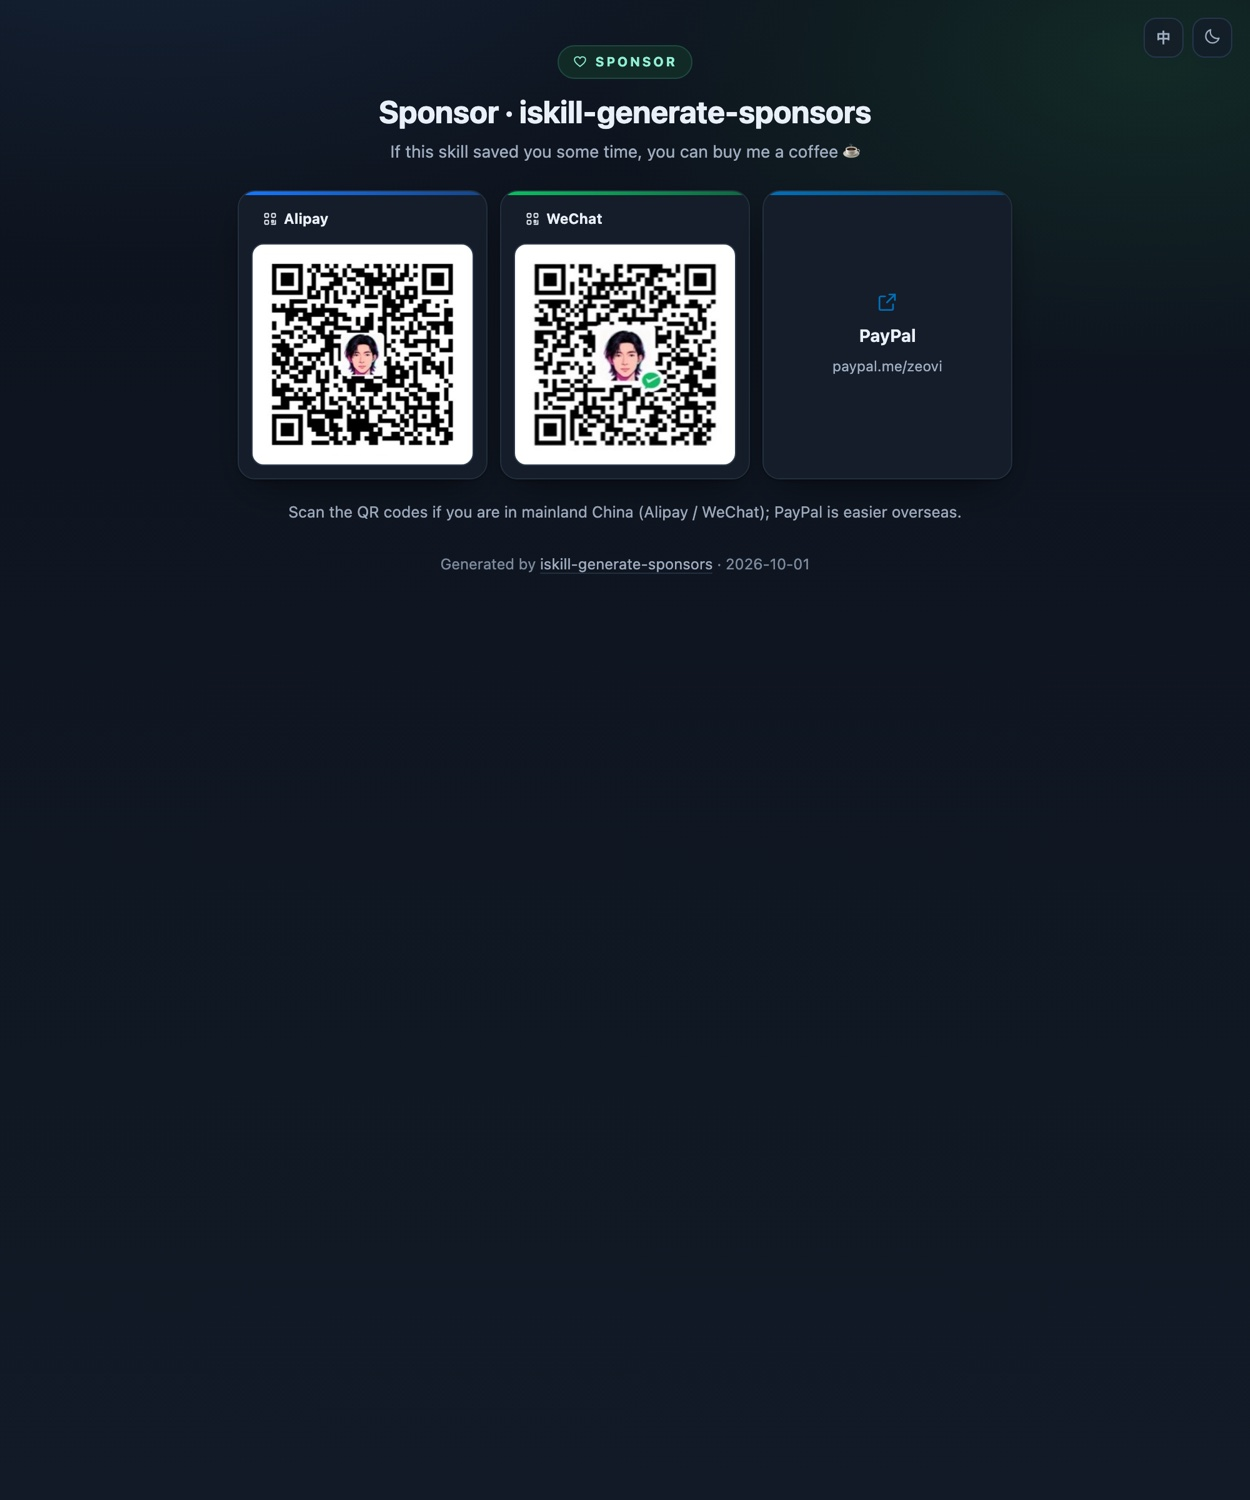
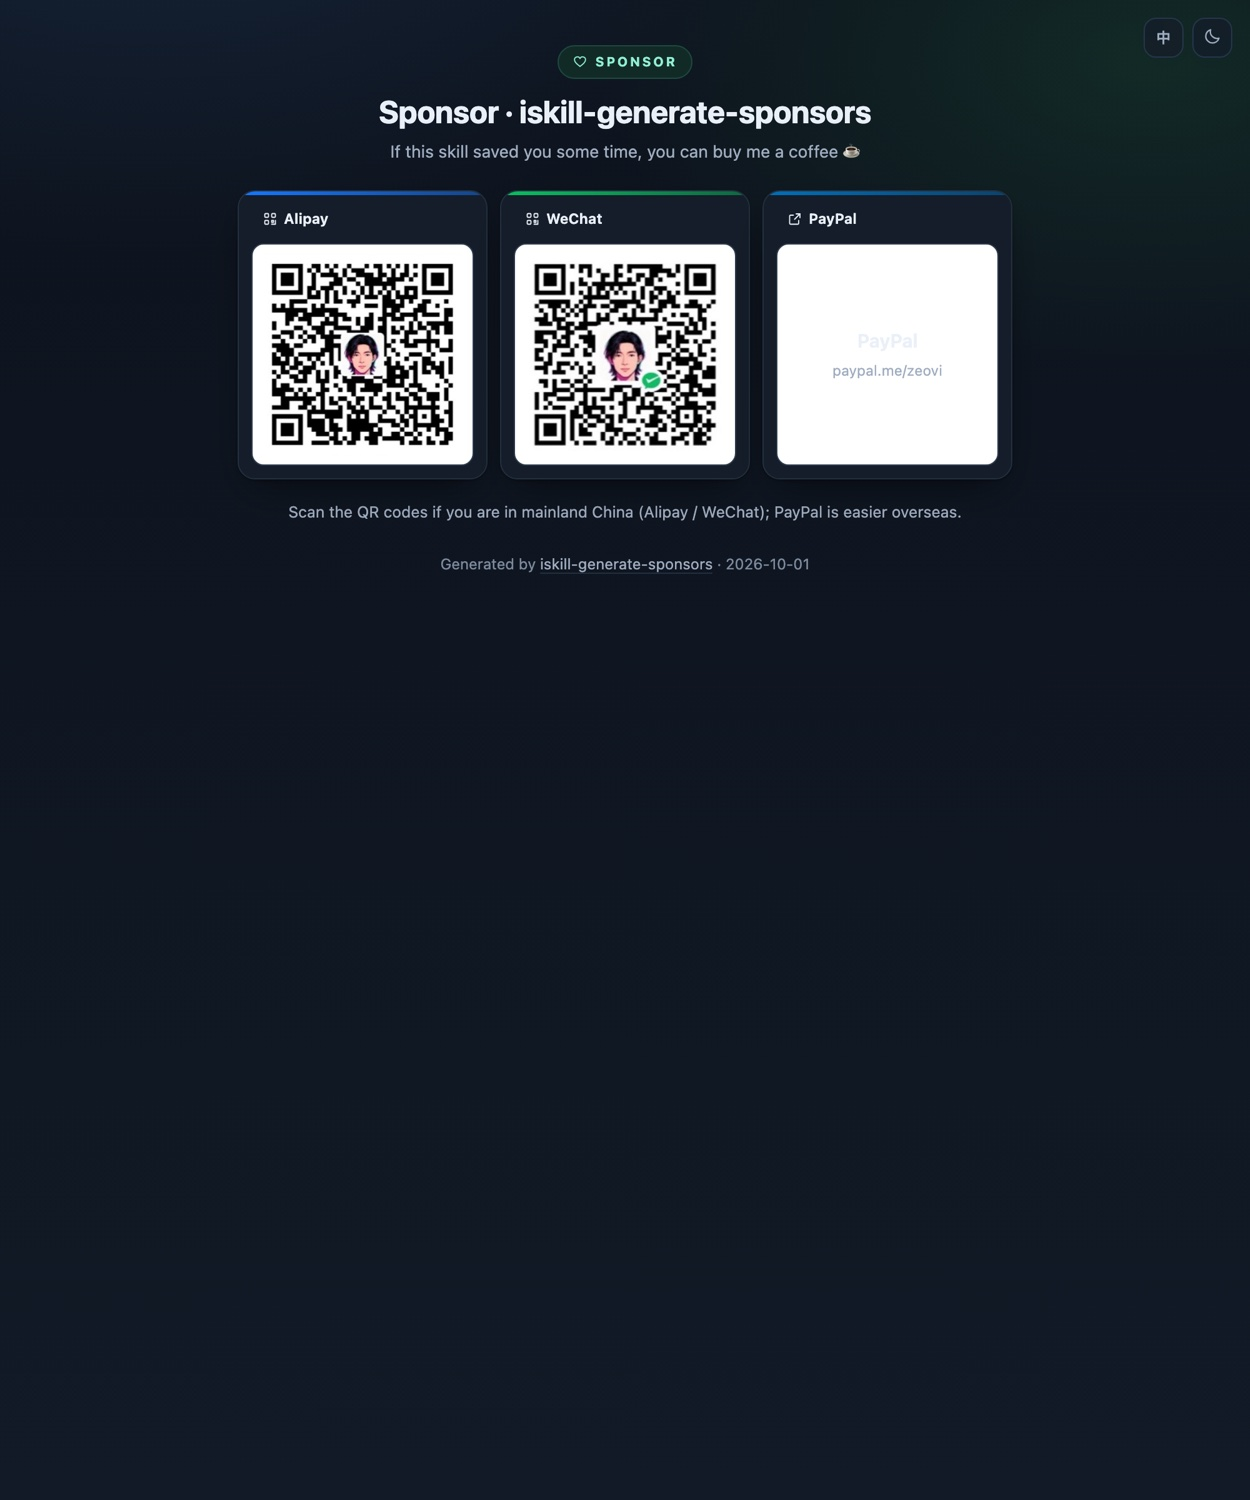
refine: 外链卡与码卡同构（chip 头 + 圆角方容器居中名称与链接）

Changed region(s): [[0.624, 0.1227, 0.8112, 0.3373]]

diff --git a/index.html b/index.html
@@ -133,7 +133,7 @@ h1{
       </span>
     </header>
     <p class="meta">
-      <span data-zh="更新于" data-en="Generated">更新于</span> 2026-10-01 23:31:20
+      <span data-zh="更新于" data-en="Generated">更新于</span> 2026-10-01 23:36:08
       · <span data-zh="图片在" data-en="Images in">图片在</span> <code>.github/sponsor/</code>
       · <span data-zh="公开预览页" data-en="Public page">公开预览页</span> <a href="sponsors.html">sponsors.html</a>
       · <a href="https://github.com/aispin/iskill-generate-sponsors" target="_blank" rel="noopener noreferrer"><span data-zh="GitHub 仓库" data-en="GitHub repo">GitHub 仓库</span> ↗</a>
@@ -502,11 +502,11 @@ const CSS = `
 .sp-1qs5qt .sp-zoom svg{width:13px;height:13px}
 .sp-1qs5qt .sp-qr:hover .sp-zoom{opacity:1}
 
-/* 链接项与码卡同款卡片外观：同宽、等高（随行内最高者）、同装饰 */
+/* 链接卡与码卡同构：顶部 chip（图标+名称），中间圆角方容器居中放 名称+链接 */
 .sp-1qs5qt .sp-link{
   position:relative;margin:0;width:200px;max-width:100%;
-  display:flex;flex-direction:column;align-items:center;justify-content:center;gap:3px;
-  padding:9px;text-decoration:none;color:var(--sp-ink);text-align:center;
+  display:flex;flex-direction:column;gap:7px;
+  padding:9px;text-decoration:none;color:var(--sp-ink);
   background:var(--sp-card);border:1px solid var(--sp-line);border-radius:12px;
   box-shadow:var(--sp-shadow);
   transition:transform .18s,box-shadow .18s;
@@ -518,10 +518,14 @@ const CSS = `
 }
 .sp-1qs5qt .sp-link:hover{transform:translateY(-2px);box-shadow:0 4px 14px -8px rgba(16,32,56,.28)}
 .sp-1qs5qt .sp-link:focus-visible{outline:2px solid var(--sp-accent);outline-offset:2px}
-.sp-1qs5qt .sp-link-label{font-weight:650;font-size:13px}
+.sp-1qs5qt .sp-link .sp-link-body{
+  flex:1;min-height:140px;
+  display:flex;flex-direction:column;align-items:center;justify-content:center;gap:3px;
+  background:var(--sp-qr-bg);border:1px solid var(--sp-qr-line);border-radius:8px;
+  padding:6px;text-align:center;
+}
+.sp-1qs5qt .sp-link-name{font-weight:650;font-size:14px}
 .sp-1qs5qt .sp-link-sub{font-size:11px;color:var(--sp-ink2);max-width:100%;overflow:hidden;text-overflow:ellipsis;white-space:nowrap}
-.sp-1qs5qt .sp-link-ic{width:17px;height:17px;color:var(--sp-accent);margin-bottom:3px}
-.sp-1qs5qt .sp-link-ic svg{width:100%;height:100%}
 .sp-1qs5qt .sp-empty{flex-basis:100%;color:var(--sp-ink2);text-align:center}
 .sp-1qs5qt .sp-empty code{background:var(--sp-code-bg);padding:2px 6px;border-radius:6px;font-size:12.5px}
 
@@ -707,9 +711,13 @@ export default function SponsorCard({
             target="_blank"
             rel="noopener noreferrer"
           >
-            &lt;span className="sp-link-ic">&lt;Icon.Link />&lt;/span>
-            &lt;span className="sp-link-label">{l.label}&lt;/span>
-            &lt;span className="sp-link-sub">{l.sub}&lt;/span>
+            &lt;div className="sp-card-head">
+              &lt;span className="sp-chip">&lt;Icon.Link />&lt;span>{l.label}&lt;/span>&lt;/span>
+            &lt;/div>
+            &lt;span className="sp-link-body">
+              &lt;span className="sp-link-name">{l.label}&lt;/span>
+              &lt;span className="sp-link-sub">{l.sub}&lt;/span>
+            &lt;/span>
           &lt;/a>
         )) : (
           &lt;p className="sp-empty" dangerouslySetInnerHTML={{ __html: t.empty }} />
@@ -808,9 +816,13 @@ export default function SponsorCard({
         target="_blank"
         rel="noopener noreferrer"
       >
-        &lt;span class="sp-link-ic">&lt;svg viewBox="0 0 24 24" fill="none" stroke="currentColor" stroke-width="1.8" stroke-linecap="round" stroke-linejoin="round">&lt;path d="M14 4h6v6"/>&lt;path d="M20 4l-8.5 8.5"/>&lt;path d="M18 14.5V19a1.5 1.5 0 0 1-1.5 1.5H5A1.5 1.5 0 0 1 3.5 19V7.5A1.5 1.5 0 0 1 5 6h4.5"/>&lt;/svg>&lt;/span>
-        &lt;span class="sp-link-label">{{ l.label }}&lt;/span>
-        &lt;span class="sp-link-sub">{{ l.sub }}&lt;/span>
+        &lt;div class="sp-card-head">
+          &lt;span class="sp-chip">&lt;svg viewBox="0 0 24 24" fill="none" stroke="currentColor" stroke-width="1.8" stroke-linecap="round" stroke-linejoin="round">&lt;path d="M14 4h6v6"/>&lt;path d="M20 4l-8.5 8.5"/>&lt;path d="M18 14.5V19a1.5 1.5 0 0 1-1.5 1.5H5A1.5 1.5 0 0 1 3.5 19V7.5A1.5 1.5 0 0 1 5 6h4.5"/>&lt;/svg>&lt;span>{{ l.label }}&lt;/span>&lt;/span>
+        &lt;/div>
+        &lt;span class="sp-link-body">
+          &lt;span class="sp-link-name">{{ l.label }}&lt;/span>
+          &lt;span class="sp-link-sub">{{ l.sub }}&lt;/span>
+        &lt;/span>
       &lt;/a>
       &lt;p v-if="!d.links.length" class="sp-empty" v-html="t.empty">&lt;/p>
     &lt;/section>
@@ -1127,11 +1139,11 @@ onBeforeUnmount(() => document.removeEventListener('keydown', onKey));
 .sponsor-card .sp-zoom svg{width:13px;height:13px}
 .sponsor-card .sp-qr:hover .sp-zoom{opacity:1}
 
-/* 链接项与码卡同款卡片外观：同宽、等高（随行内最高者）、同装饰 */
+/* 链接卡与码卡同构：顶部 chip（图标+名称），中间圆角方容器居中放 名称+链接 */
 .sponsor-card .sp-link{
   position:relative;margin:0;width:200px;max-width:100%;
-  display:flex;flex-direction:column;align-items:center;justify-content:center;gap:3px;
-  padding:9px;text-decoration:none;color:var(--sp-ink);text-align:center;
+  display:flex;flex-direction:column;gap:7px;
+  padding:9px;text-decoration:none;color:var(--sp-ink);
   background:var(--sp-card);border:1px solid var(--sp-line);border-radius:12px;
   box-shadow:var(--sp-shadow);
   transition:transform .18s,box-shadow .18s;
@@ -1143,10 +1155,14 @@ onBeforeUnmount(() => document.removeEventListener('keydown', onKey));
 }
 .sponsor-card .sp-link:hover{transform:translateY(-2px);box-shadow:0 4px 14px -8px rgba(16,32,56,.28)}
 .sponsor-card .sp-link:focus-visible{outline:2px solid var(--sp-accent);outline-offset:2px}
-.sponsor-card .sp-link-label{font-weight:650;font-size:13px}
+.sponsor-card .sp-link :deep(.sp-link-body){
+  flex:1;min-height:140px;
+  display:flex;flex-direction:column;align-items:center;justify-content:center;gap:3px;
+  background:var(--sp-qr-bg);border:1px solid var(--sp-qr-line);border-radius:8px;
+  padding:6px;text-align:center;
+}
+.sponsor-card .sp-link-name{font-weight:650;font-size:14px}
 .sponsor-card .sp-link-sub{font-size:11px;color:var(--sp-ink2);max-width:100%;overflow:hidden;text-overflow:ellipsis;white-space:nowrap}
-.sponsor-card .sp-link-ic{width:17px;height:17px;color:var(--sp-accent);margin-bottom:3px}
-.sponsor-card .sp-link-ic svg{width:100%;height:100%}
 .sponsor-card .sp-empty{flex-basis:100%;color:var(--sp-ink2);text-align:center}
 .sponsor-card .sp-empty :deep(code){background:var(--sp-code-bg);padding:2px 6px;border-radius:6px;font-size:12.5px}
 

diff --git a/SponsorCard.vue b/SponsorCard.vue
@@ -57,9 +57,13 @@
         target="_blank"
         rel="noopener noreferrer"
       >
-        <span class="sp-link-ic"><svg viewBox="0 0 24 24" fill="none" stroke="currentColor" stroke-width="1.8" stroke-linecap="round" stroke-linejoin="round"><path d="M14 4h6v6"/><path d="M20 4l-8.5 8.5"/><path d="M18 14.5V19a1.5 1.5 0 0 1-1.5 1.5H5A1.5 1.5 0 0 1 3.5 19V7.5A1.5 1.5 0 0 1 5 6h4.5"/></svg></span>
-        <span class="sp-link-label">{{ l.label }}</span>
-        <span class="sp-link-sub">{{ l.sub }}</span>
+        <div class="sp-card-head">
+          <span class="sp-chip"><svg viewBox="0 0 24 24" fill="none" stroke="currentColor" stroke-width="1.8" stroke-linecap="round" stroke-linejoin="round"><path d="M14 4h6v6"/><path d="M20 4l-8.5 8.5"/><path d="M18 14.5V19a1.5 1.5 0 0 1-1.5 1.5H5A1.5 1.5 0 0 1 3.5 19V7.5A1.5 1.5 0 0 1 5 6h4.5"/></svg><span>{{ l.label }}</span></span>
+        </div>
+        <span class="sp-link-body">
+          <span class="sp-link-name">{{ l.label }}</span>
+          <span class="sp-link-sub">{{ l.sub }}</span>
+        </span>
       </a>
       <p v-if="!d.links.length" class="sp-empty" v-html="t.empty"></p>
     </section>
@@ -376,11 +380,11 @@ onBeforeUnmount(() => document.removeEventListener('keydown', onKey));
 .sponsor-card .sp-zoom svg{width:13px;height:13px}
 .sponsor-card .sp-qr:hover .sp-zoom{opacity:1}
 
-/* 链接项与码卡同款卡片外观：同宽、等高（随行内最高者）、同装饰 */
+/* 链接卡与码卡同构：顶部 chip（图标+名称），中间圆角方容器居中放 名称+链接 */
 .sponsor-card .sp-link{
   position:relative;margin:0;width:200px;max-width:100%;
-  display:flex;flex-direction:column;align-items:center;justify-content:center;gap:3px;
-  padding:9px;text-decoration:none;color:var(--sp-ink);text-align:center;
+  display:flex;flex-direction:column;gap:7px;
+  padding:9px;text-decoration:none;color:var(--sp-ink);
   background:var(--sp-card);border:1px solid var(--sp-line);border-radius:12px;
   box-shadow:var(--sp-shadow);
   transition:transform .18s,box-shadow .18s;
@@ -392,10 +396,14 @@ onBeforeUnmount(() => document.removeEventListener('keydown', onKey));
 }
 .sponsor-card .sp-link:hover{transform:translateY(-2px);box-shadow:0 4px 14px -8px rgba(16,32,56,.28)}
 .sponsor-card .sp-link:focus-visible{outline:2px solid var(--sp-accent);outline-offset:2px}
-.sponsor-card .sp-link-label{font-weight:650;font-size:13px}
+.sponsor-card .sp-link :deep(.sp-link-body){
+  flex:1;min-height:140px;
+  display:flex;flex-direction:column;align-items:center;justify-content:center;gap:3px;
+  background:var(--sp-qr-bg);border:1px solid var(--sp-qr-line);border-radius:8px;
+  padding:6px;text-align:center;
+}
+.sponsor-card .sp-link-name{font-weight:650;font-size:14px}
 .sponsor-card .sp-link-sub{font-size:11px;color:var(--sp-ink2);max-width:100%;overflow:hidden;text-overflow:ellipsis;white-space:nowrap}
-.sponsor-card .sp-link-ic{width:17px;height:17px;color:var(--sp-accent);margin-bottom:3px}
-.sponsor-card .sp-link-ic svg{width:100%;height:100%}
 .sponsor-card .sp-empty{flex-basis:100%;color:var(--sp-ink2);text-align:center}
 .sponsor-card .sp-empty :deep(code){background:var(--sp-code-bg);padding:2px 6px;border-radius:6px;font-size:12.5px}
 

diff --git a/sponsors.html b/sponsors.html
@@ -138,12 +138,12 @@ body{
 .zoom svg{width:14px;height:14px}
 .qr:hover .zoom{opacity:1}
 
-/* 链接项与码卡同款卡片外观：同宽、等高（随行内最高者）、同装饰 */
+/* 链接卡与码卡同构：顶部 chip（图标+名称），中间圆角方容器居中放 名称+链接 */
 .link{
   --accent:#10C8A1;
   position:relative;margin:0;width:200px;max-width:100%;
-  display:flex;flex-direction:column;align-items:center;justify-content:center;gap:4px;
-  padding:10px;text-decoration:none;color:var(--ink);text-align:center;
+  display:flex;flex-direction:column;gap:7px;
+  padding:10px;text-decoration:none;color:var(--ink);
   background:var(--card);border:1px solid var(--line);border-radius:14px;
   box-shadow:var(--shadow);
   transition:transform .18s,box-shadow .18s;
@@ -155,10 +155,14 @@ body{
 }
 .link:hover{transform:translateY(-2px);box-shadow:var(--shadow-hi)}
 .link:focus-visible{outline:2px solid var(--accent);outline-offset:2px}
-.link-label{font-weight:650;font-size:14px}
+.link-body{
+  flex:1;min-height:150px;
+  display:flex;flex-direction:column;align-items:center;justify-content:center;gap:3px;
+  background:var(--qr-bg);border:1px solid var(--qr-line);border-radius:10px;
+  padding:7px;text-align:center;
+}
+.link-name{font-weight:650;font-size:15px}
 .link-sub{font-size:11.5px;color:var(--ink2);max-width:100%;overflow:hidden;text-overflow:ellipsis;white-space:nowrap}
-.link-icon{width:18px;height:18px;color:var(--accent);margin-bottom:3px}
-.link-icon svg{width:100%;height:100%}
 .empty{flex-basis:100%;color:var(--ink2);text-align:center}
 .empty code{background:var(--code-bg);padding:2px 6px;border-radius:6px;font-size:13.5px}
 
@@ -265,9 +269,13 @@ body{
       </figure>
 
         <a class="link" style="--accent:#0070BA" href="https://paypal.me/zeovi" target="_blank" rel="noopener noreferrer">
-          <span class="link-icon"><svg viewBox="0 0 24 24" fill="none" stroke="currentColor" stroke-width="1.8" stroke-linecap="round" stroke-linejoin="round"><path d="M14 4h6v6"/><path d="M20 4l-8.5 8.5"/><path d="M18 14.5V19a1.5 1.5 0 0 1-1.5 1.5H5A1.5 1.5 0 0 1 3.5 19V7.5A1.5 1.5 0 0 1 5 6h4.5"/></svg></span>
-          <span class="link-label">PayPal</span>
-          <span class="link-sub">paypal.me/zeovi</span>
+          <div class="card-head">
+            <span class="chip"><svg viewBox="0 0 24 24" fill="none" stroke="currentColor" stroke-width="1.8" stroke-linecap="round" stroke-linejoin="round"><path d="M14 4h6v6"/><path d="M20 4l-8.5 8.5"/><path d="M18 14.5V19a1.5 1.5 0 0 1-1.5 1.5H5A1.5 1.5 0 0 1 3.5 19V7.5A1.5 1.5 0 0 1 5 6h4.5"/></svg><span>PayPal</span></span>
+          </div>
+          <span class="link-body">
+            <span class="link-name">PayPal</span>
+            <span class="link-sub">paypal.me/zeovi</span>
+          </span>
         </a>
   </section>
 

diff --git a/SponsorCard.jsx b/SponsorCard.jsx
@@ -225,11 +225,11 @@ const CSS = `
 .sp-1qs5qt .sp-zoom svg{width:13px;height:13px}
 .sp-1qs5qt .sp-qr:hover .sp-zoom{opacity:1}
 
-/* 链接项与码卡同款卡片外观：同宽、等高（随行内最高者）、同装饰 */
+/* 链接卡与码卡同构：顶部 chip（图标+名称），中间圆角方容器居中放 名称+链接 */
 .sp-1qs5qt .sp-link{
   position:relative;margin:0;width:200px;max-width:100%;
-  display:flex;flex-direction:column;align-items:center;justify-content:center;gap:3px;
-  padding:9px;text-decoration:none;color:var(--sp-ink);text-align:center;
+  display:flex;flex-direction:column;gap:7px;
+  padding:9px;text-decoration:none;color:var(--sp-ink);
   background:var(--sp-card);border:1px solid var(--sp-line);border-radius:12px;
   box-shadow:var(--sp-shadow);
   transition:transform .18s,box-shadow .18s;
@@ -241,10 +241,14 @@ const CSS = `
 }
 .sp-1qs5qt .sp-link:hover{transform:translateY(-2px);box-shadow:0 4px 14px -8px rgba(16,32,56,.28)}
 .sp-1qs5qt .sp-link:focus-visible{outline:2px solid var(--sp-accent);outline-offset:2px}
-.sp-1qs5qt .sp-link-label{font-weight:650;font-size:13px}
+.sp-1qs5qt .sp-link .sp-link-body{
+  flex:1;min-height:140px;
+  display:flex;flex-direction:column;align-items:center;justify-content:center;gap:3px;
+  background:var(--sp-qr-bg);border:1px solid var(--sp-qr-line);border-radius:8px;
+  padding:6px;text-align:center;
+}
+.sp-1qs5qt .sp-link-name{font-weight:650;font-size:14px}
 .sp-1qs5qt .sp-link-sub{font-size:11px;color:var(--sp-ink2);max-width:100%;overflow:hidden;text-overflow:ellipsis;white-space:nowrap}
-.sp-1qs5qt .sp-link-ic{width:17px;height:17px;color:var(--sp-accent);margin-bottom:3px}
-.sp-1qs5qt .sp-link-ic svg{width:100%;height:100%}
 .sp-1qs5qt .sp-empty{flex-basis:100%;color:var(--sp-ink2);text-align:center}
 .sp-1qs5qt .sp-empty code{background:var(--sp-code-bg);padding:2px 6px;border-radius:6px;font-size:12.5px}
 
@@ -430,9 +434,13 @@ export default function SponsorCard({
             target="_blank"
             rel="noopener noreferrer"
           >
-            <span className="sp-link-ic"><Icon.Link /></span>
-            <span className="sp-link-label">{l.label}</span>
-            <span className="sp-link-sub">{l.sub}</span>
+            <div className="sp-card-head">
+              <span className="sp-chip"><Icon.Link /><span>{l.label}</span></span>
+            </div>
+            <span className="sp-link-body">
+              <span className="sp-link-name">{l.label}</span>
+              <span className="sp-link-sub">{l.sub}</span>
+            </span>
           </a>
         )) : (
           <p className="sp-empty" dangerouslySetInnerHTML={{ __html: t.empty }} />
